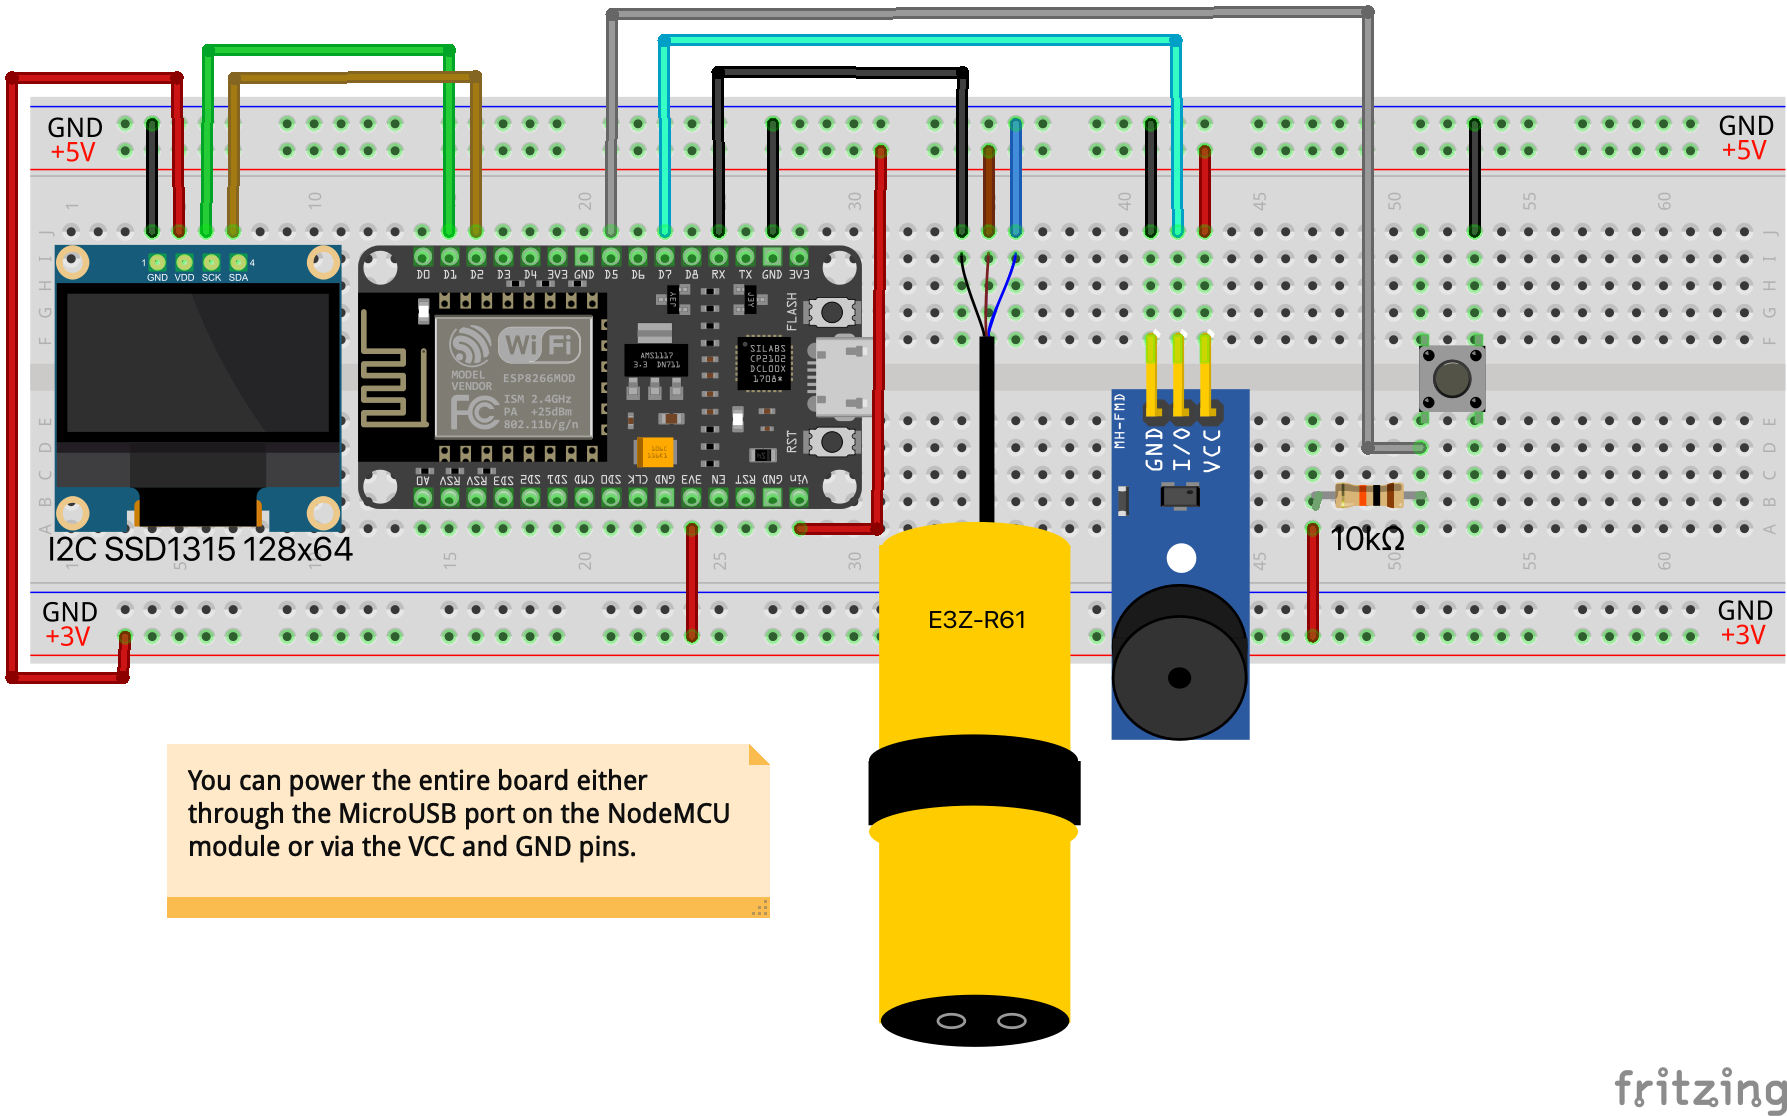
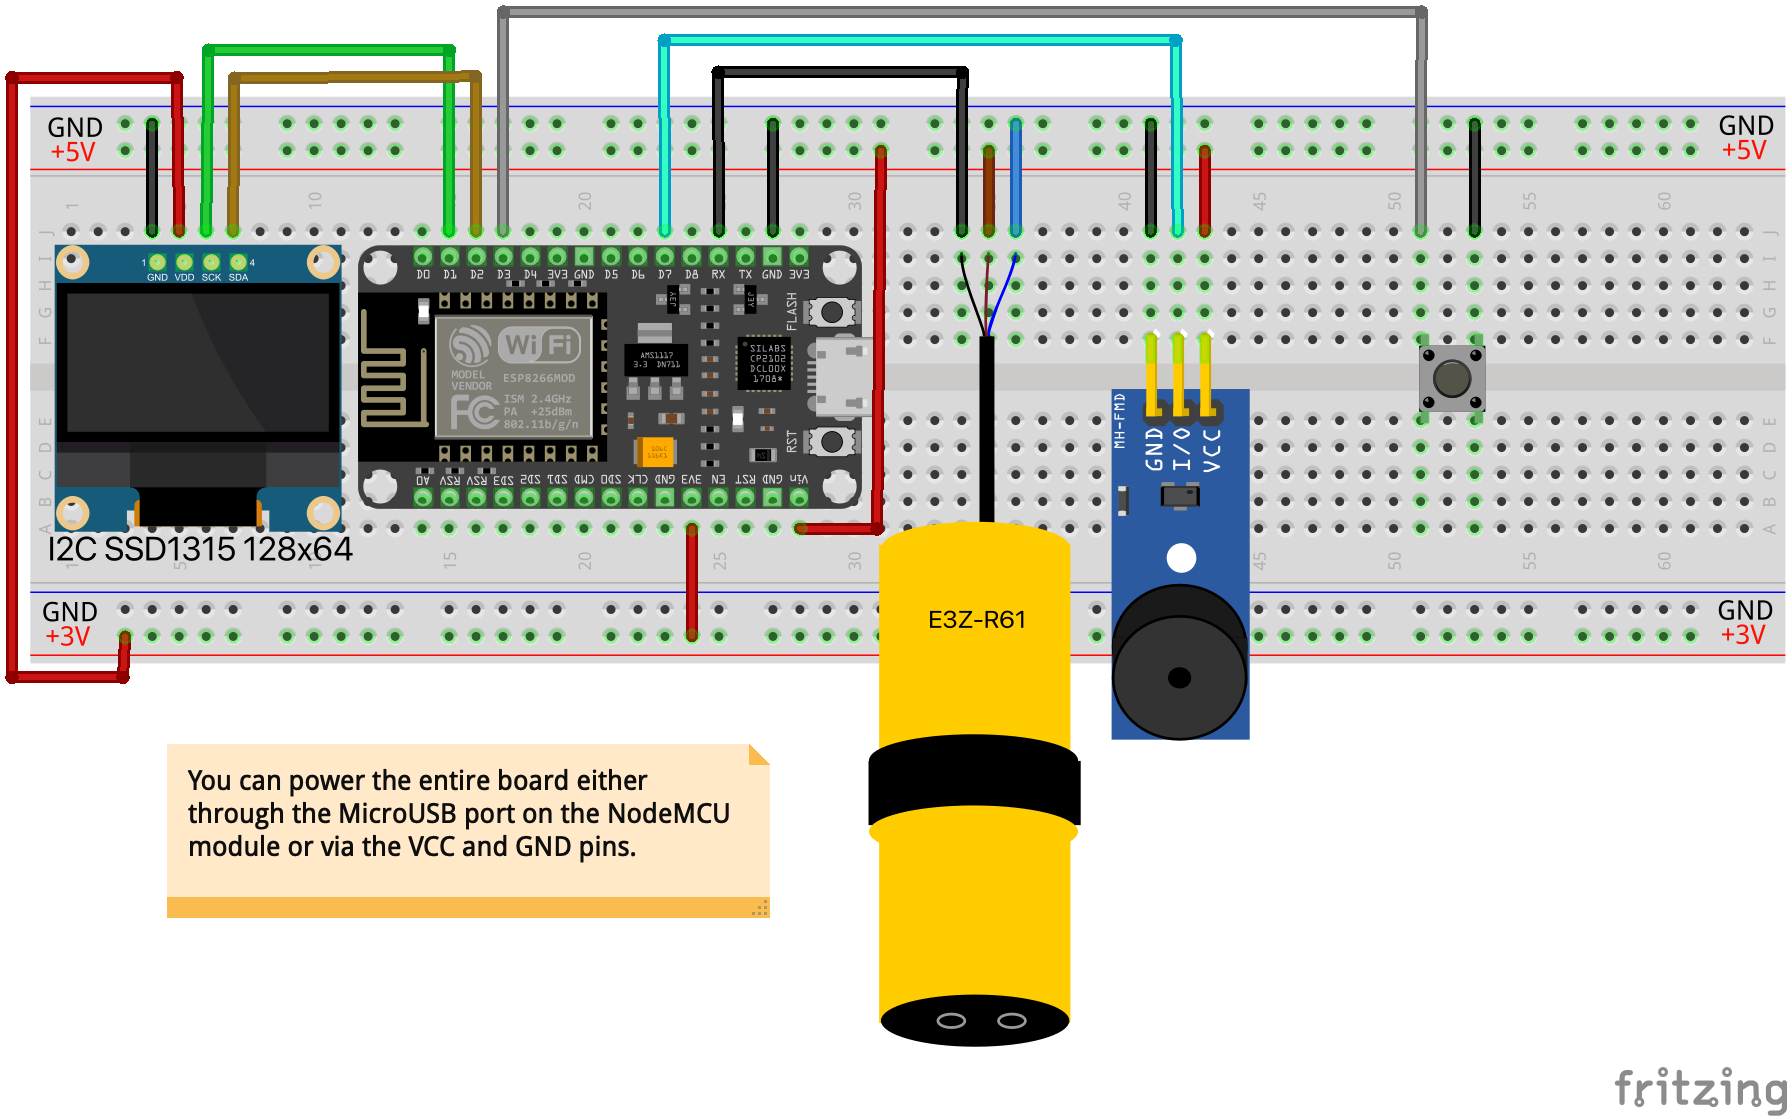
Schematic button fix

Changed region(s): [[0.7079, 0.0, 0.8002, 0.5789], [0.277, 0.0, 0.6771, 0.2133]]

diff --git a/README.md b/README.md
@@ -99,6 +99,8 @@ Ready-made equipment kits with customization options and additional modules are 
 
 You can build the device using NodeMCU ESP8266 or Wemos ESP8266. This diagram applies to both the Master and Point (PRO) devices. Choose the appropriate software link below for installation.
 
+On the NodeMCU board, the Flash button performs the same functions as the external button connected to D3. If needed, you can use it instead of the external button.
+
 ### [E3Z-R61](https://www.aliexpress.com/item/1005004123351251.html) (2-3m distance, IR sensor)
 
 <img src="https://github.com/renat2985/protimer.club/blob/main/doc/schematic.png" height="200px" alt="Connection Diagram"> <img src="https://github.com/renat2985/protimer.club/blob/main/doc/schematic2.png" height="200px" alt="Connection Diagram 2">
